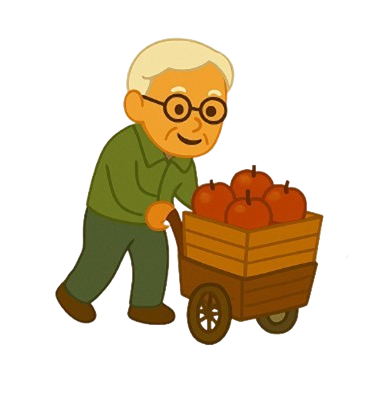
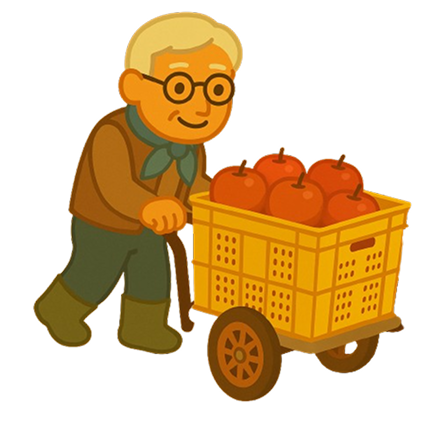
할아버지 이미지, 문구 일부 수정

diff --git a/src/pages/quest/HarvestQuest.tsx b/src/pages/quest/HarvestQuest.tsx
@@ -50,11 +50,11 @@ const HarvestQuest = () => {
     setScenarioId(sId);
     setQuestId(qId || '4');
     
-    // 인트로 화면 후 자동으로 드라이빙 시작
+    // 인트로 화면 3s후 드라이빙
     const timer = setTimeout(() => {
       setGamePhase('driving');
       
-      // 운전 애니메이션 후 갈림길 발견 화면으로 전환
+      // 드라이비 1s후 사과박스 쌓인 정지 화면으로 전환
       const drivingTimer = setTimeout(() => {
         setGamePhase('harvestDone');
         
@@ -64,7 +64,7 @@ const HarvestQuest = () => {
         }, 0);
         
         return () => clearTimeout(alertTimer);
-      }, 5000);
+      }, 1000);
       
       return () => clearTimeout(drivingTimer);
     }, 3000);
@@ -169,11 +169,11 @@ const HarvestQuest = () => {
       {gamePhase === 'intro' && (
         <>
           <HarvestBox />
-          {showIntroText && (
+          {/*showIntroText && (
             <div className="absolute inset-0 flex items-center justify-center z-20">
               {renderTitleText('작업 완료')}
             </div>
-          )}
+          )*/}
         </>
       )}
 
@@ -181,9 +181,9 @@ const HarvestQuest = () => {
       {gamePhase === 'driving' && (
         <div className="absolute inset-0 flex items-center justify-center z-10">
           <HarvestBox2 />
-          <div className="absolute z-20">
+          {/*<div className="absolute z-20">
             {renderTitleText('작업 완료')}
-          </div>
+          </div> */}
         </div>
       )}
       

diff --git a/src/App.tsx b/src/App.tsx
@@ -31,7 +31,7 @@ function App() {
       <Routes>
         {/* 기본 화면들 */}
         <Route path="/" element={<HomePage />} />
-        <Route path="/scenarios" element={<EduScreen/>} />
+        <Route path="/scenarios" element={<HarvestQuest />} />
         <Route path="/map" element={<MapPage />} />
         <Route path="/prologue" element={<ProloguePage />} />
 
